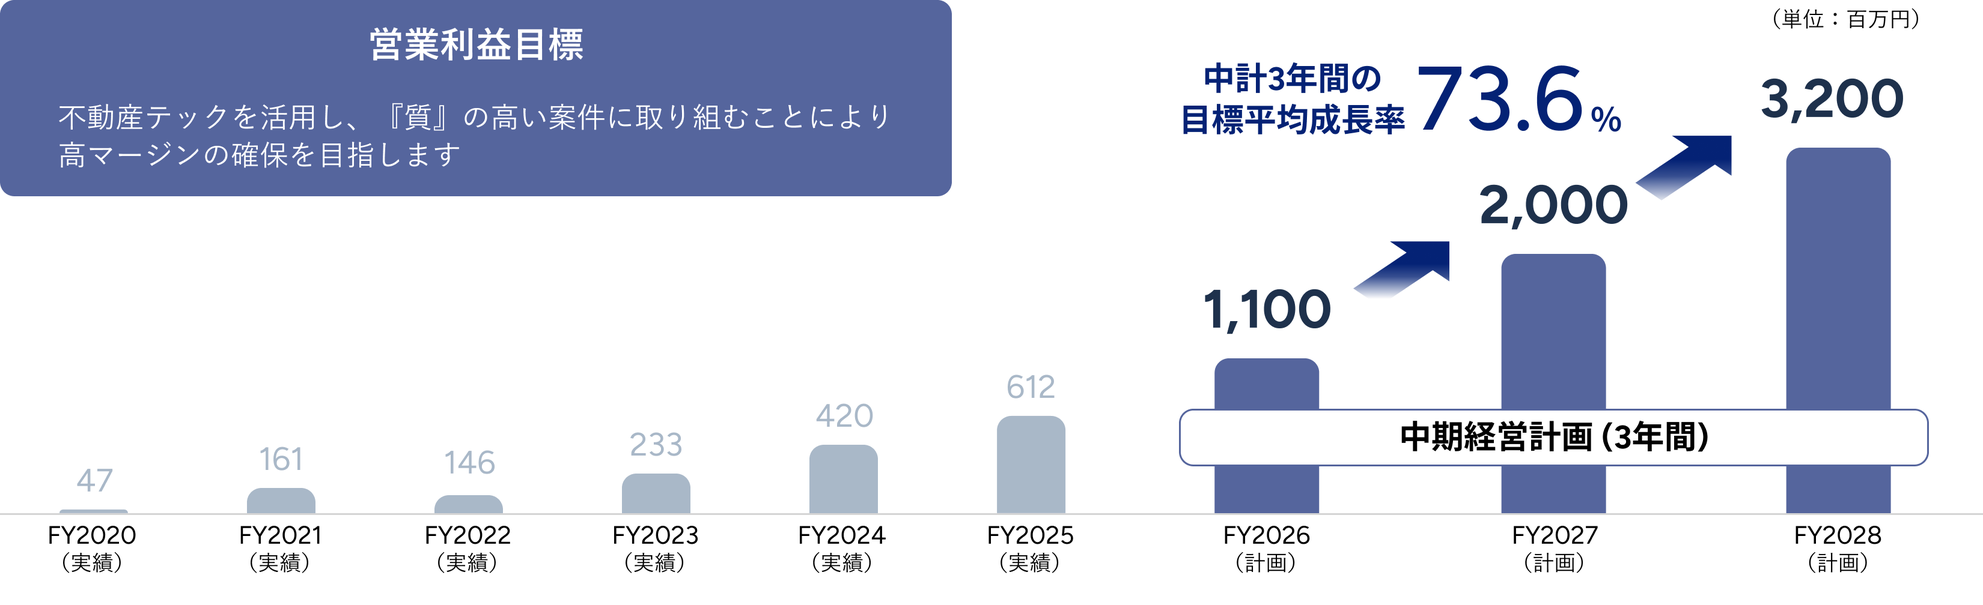
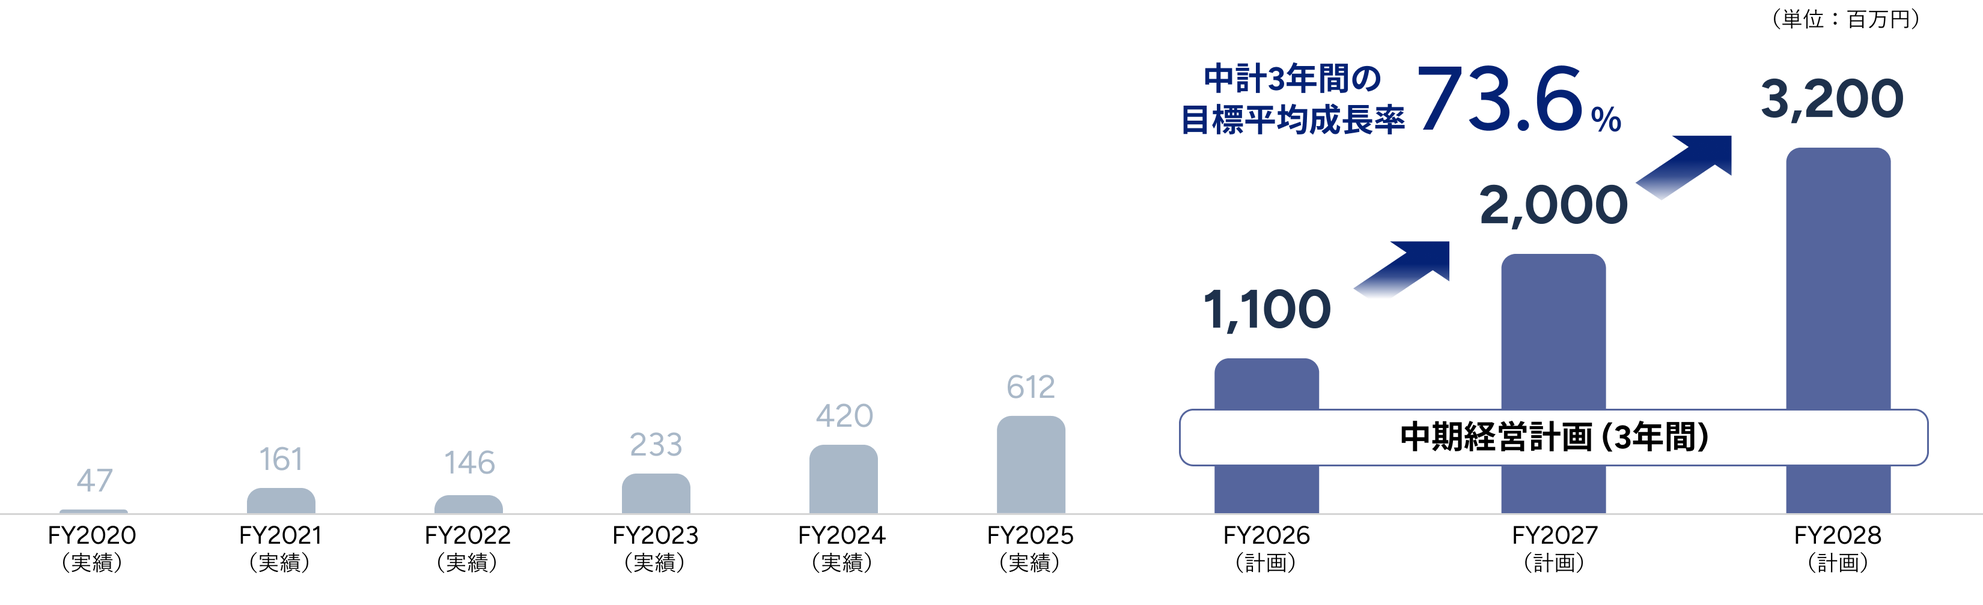
3

Changed region(s): [[0.0, 0.0, 0.4994, 0.3383]]

diff --git a/style.css b/style.css
@@ -1,1 +1,1 @@
-@charset "UTF-8";:root{--azure-21: #1e314c;--azure-72: #a9b8c8;--blue-47: #55659d;--grey-96: #f3f6f8}@keyframes fadeUpScale{0%{opacity:0;transform:translateY(100px)}to{opacity:1;transform:translateY(0)}}@keyframes slideFromLeft1{0%{transform:translate(-100%)}70%{transform:translate(15%)}to{transform:translate(0)}}@keyframes slideFromLeft2{0%{transform:translate(-200%)}70%{transform:translate(15%)}to{transform:translate(0)}}@keyframes slideFromLeft3{0%{transform:translate(-300%)}70%{transform:translate(15%)}to{transform:translate(0)}}@keyframes slideFromLeft4{0%{transform:translate(-400%)}70%{transform:translate(15%)}to{transform:translate(0)}}@keyframes slideFromLeft5{0%{transform:translate(-500%)}70%{transform:translate(15%)}to{transform:translate(0)}}@keyframes fadeInLeft{0%{opacity:0;transform:translate(-100%)}to{opacity:1;transform:translate(0)}}@keyframes fadeInRight{0%{opacity:0;transform:translate(100%)}to{opacity:1;transform:translate(0)}}@keyframes zoomIn{0%{opacity:0;transform:scale(0)}to{opacity:1;transform:scale(1)}}@keyframes revealWidth{0%{width:0}to{width:100%}}@keyframes slideWidth{0%{opacity:0;clip-path:inset(0 100% 0 0)}5%{opacity:1}to{opacity:1;clip-path:inset(0 0 0 0)}}*{margin:0;padding:0;outline:none;list-style:none;border:none;text-decoration:none;box-sizing:border-box}button{background-color:transparent}body{font-family:游ゴシック体,YuGothic,游ゴシック,Yu Gothic,メイリオ,sans-serif;color:var(--azure-21);overflow-x:hidden}.plan{width:100%;height:max-content;background-color:#fff}.plan__point{width:100%;border-radius:8px;overflow:hidden}.plan__pointTitle{display:flex;align-items:center;gap:12px;height:41px;padding:6px 28px;font-size:16px;line-height:1.8;font-weight:700;color:#fff;background-color:var(--azure-21)}.plan__pointTitle img{width:24px;height:24px}.plan__pointContent{display:flex;flex-direction:column;gap:4px;padding:12px 28px;font-size:14px;line-height:1.8;font-weight:500;color:var(--azure-21);background-color:var(--grey-96)}.plan__pointContent--primary{background-color:#fff}.plan__pointContent ul{padding-left:5px}.plan__pointCheck{display:flex;flex-direction:column;width:100%}.plan__pointCheckTitle{display:flex;align-items:center;gap:4px;width:100%}.plan__pointCheckTitle img{width:14px;height:14px}.plan__pointCheckTitle p{font-weight:700}.plan__pointCheckSubTitle{padding-left:18px}.plan__dataList{display:flex;flex-direction:column;gap:18px;width:100%;margin-bottom:30px}.plan__dataItem{display:grid;grid-template-columns:261fr 839fr;width:100%;min-height:61px;background-color:var(--blue-47);border:1px solid var(--blue-47);border-radius:8px;overflow:hidden}.plan__dataItemTitle{display:flex;justify-content:center;align-items:center;height:auto;padding:0 5px;font-size:16px;line-height:1.3;font-weight:700;color:#fff;text-align:center}.plan__dataItemContent{display:flex;align-items:center;height:auto;padding:8px 16px;font-size:16px;line-height:1.3;font-weight:500;color:var(--azure-21);background-color:#fff}.plan__hero{width:100%;height:120px;background-image:url(/assets/bg.avif)}.plan__heroInner{display:flex;align-items:center;width:90%;max-width:1100px;height:100%;margin:0 auto}.plan__heroInner h1{font-family:Figtree,Zen Kaku Gothic New,Noto Sans JP,游ゴシック体,YuGothic,游ゴシック,Yu Gothic,メイリオ,sans-serif;font-size:42px;line-height:1;font-weight:700}.plan__banner{width:100%;padding:87px 0 99px;background-color:#00f}.plan__bannerInner{display:flex;flex-direction:column;align-items:center;width:90%;max-width:1100px;margin:0 auto}.plan__bannerTitle{font-size:28px;line-height:45px;font-weight:700;color:#fff}.plan__bannerStrategy{margin-bottom:64px;font-family:Figtree,Zen Kaku Gothic New,Noto Sans JP,游ゴシック体,YuGothic,游ゴシック,Yu Gothic,メイリオ,sans-serif;font-size:19px;line-height:23px;font-weight:500;color:#fff}.plan__bannerStatement{margin-bottom:16px;font-size:28px;line-height:45px;font-weight:500;color:#fff;text-align:center}.plan__bannerCaption{margin-bottom:9px;font-size:28px;line-height:45px;font-weight:500;color:#fff}.plan__bannerGoal{display:flex;align-items:baseline;margin-bottom:15.6px;font-size:48px;line-height:77px;font-weight:700;color:#fff}.plan__bannerSuffix{font-size:28px;line-height:45px;font-weight:500;color:#fff}.plan__bannerDesc{width:100%;max-width:749px;margin-bottom:73px;font-size:14px;line-height:22px;font-weight:500;color:#fff;text-align:center}.plan__bannerDownload{display:flex;align-items:center;gap:4px;padding:10px 24px;margin-bottom:73.13px;font-size:18px;line-height:1;font-weight:700;color:#fff;background-color:var(--blue-47);border-radius:5px}.plan__bannerDownload img{width:28px;height:24px}.plan__title{width:100%;padding-bottom:15px;margin-bottom:28.9px;border-bottom:1px solid var(--azure-21)}.plan__title h3{font-size:20px;line-height:32px;font-weight:700;color:var(--azure-21)}.plan__subtitle{margin-bottom:30px;font-size:16px;line-height:28.8px;font-weight:500;color:var(--azure-21)}.plan__body{display:flex;flex-direction:column;align-items:center;gap:70px;padding:70px 0 96px;background-color:#fff}.plan__target{width:90%;max-width:1100px}.plan__targetItem{display:flex;flex-direction:column;width:100%;margin-bottom:45px}.plan__targetItem--primary{margin-bottom:0}.plan__targetImage{width:100%;height:auto;aspect-ratio:1100/336}.plan__strategy{width:90%;max-width:1100px}.plan__strategy .plan__subtitle{margin-bottom:30.69px}.plan__strategyItem{display:flex;flex-direction:column;width:100%;margin-bottom:42px}.plan__strategyItem--primary{margin-bottom:0}.plan__strategyItemTitle{position:relative;width:max-content;margin-bottom:12px}.plan__strategyItemTitle:before{content:"";position:absolute;bottom:0;left:0;z-index:0;width:100%;height:5px;background:var(--azure-72)}.plan__strategyItemTitle p{position:relative;z-index:1;font-size:24px;line-height:1;font-weight:700;color:var(--azure-21)}.plan__strategyItemTitle--primary{margin-bottom:16px}.plan__strategyItemTitle--primary:before{height:9px}.plan__strategyItemTitle--primary p{line-height:1.2}.plan__strategyItemSubtitle{margin-bottom:12.69px;font-size:16px;line-height:1.8;font-weight:700;color:#000}.plan__strategyItemSubtitle--primary{margin-bottom:12px}.plan__strategyFocus{display:flex;flex-direction:column;width:100%;border-radius:8px;overflow:hidden}.plan__strategyFocusTitle{display:flex;justify-content:center;align-items:center;width:100%;height:50px;font-size:18px;line-height:1;font-weight:700;color:#fff;background-color:var(--blue-47)}.plan__strategyFocusList{display:grid;grid-template-columns:1fr 1fr 1fr;gap:24px;width:100%;padding:24px;background-color:var(--grey-96)}.plan__strategyFocusItem{width:100%;display:flex;flex-direction:column;border-radius:8px;overflow:hidden}.plan__strategyFocusItemTitle{display:flex;justify-content:center;align-items:center;height:72px;padding:13px 0;font-size:18px;line-height:1.3;font-weight:700;color:#fff;background-color:var(--azure-21)}.plan__strategyFocusItemTitle--primary{align-items:flex-start}.plan__strategyFocusItemContent{display:flex;flex-direction:column;gap:2px;flex-grow:1;padding:20px 24px;font-size:16px;line-height:1.3;font-weight:500;color:#000;background-color:#fff}.plan__strategyFocusItemContent li{display:flex;gap:4px}.plan__strategyBusiness{width:100%;padding:2px;margin-bottom:30px;border-radius:8px;background-color:#eef0f5}.plan__strategyBusiness--primary{margin:0;background-color:#dde0eb}.plan__strategyBusiness--secondary{margin:0;background-color:#99a3c4}.plan__strategyBusiness--main{display:grid;grid-template-columns:1fr 1fr 1fr 1fr;align-items:center;gap:60px;padding:27px 45px;margin:0;background-color:#fff;border:3px solid #55659d}.plan__strategyBusiness--main img{width:100%;height:auto}.plan__strategyBusiness--main img:nth-child(1){aspect-ratio:203/54}.plan__strategyBusiness--main img:nth-child(2){aspect-ratio:203/67}.plan__strategyBusiness--main img:nth-child(3){aspect-ratio:203/66}.plan__strategyBusiness--main img:nth-child(4){aspect-ratio:203/68}.plan__alliance{display:flex;flex-direction:column;width:90%;max-width:1100px}.plan__allianceImage{width:100%;height:auto;margin-bottom:30px;aspect-ratio:1100/288}.plan__growth{display:flex;flex-direction:column;width:90%;max-width:1100px}.plan__growth .plan__pointContent{gap:8px}.plan__integration{display:flex;flex-direction:column;width:90%;max-width:1100px}.plan__integration .plan__pointContent{gap:8px}
+@charset "UTF-8";:root{--azure-21: #1e314c;--azure-72: #a9b8c8;--blue-47: #55659d;--grey-96: #f3f6f8}@keyframes fadeUpScale{0%{opacity:0;transform:translateY(100px)}to{opacity:1;transform:translateY(0)}}@keyframes slideFromLeft1{0%{transform:translate(-100%)}70%{transform:translate(15%)}to{transform:translate(0)}}@keyframes slideFromLeft2{0%{transform:translate(-200%)}70%{transform:translate(15%)}to{transform:translate(0)}}@keyframes slideFromLeft3{0%{transform:translate(-300%)}70%{transform:translate(15%)}to{transform:translate(0)}}@keyframes slideFromLeft4{0%{transform:translate(-400%)}70%{transform:translate(15%)}to{transform:translate(0)}}@keyframes slideFromLeft5{0%{transform:translate(-500%)}70%{transform:translate(15%)}to{transform:translate(0)}}@keyframes fadeInLeft{0%{opacity:0;transform:translate(-100%)}to{opacity:1;transform:translate(0)}}@keyframes fadeInRight{0%{opacity:0;transform:translate(100%)}to{opacity:1;transform:translate(0)}}@keyframes zoomIn{0%{opacity:0;transform:scale(0)}to{opacity:1;transform:scale(1)}}@keyframes revealWidth{0%{width:0}to{width:100%}}@keyframes slideWidth{0%{opacity:0;clip-path:inset(0 100% 0 0)}5%{opacity:1}to{opacity:1;clip-path:inset(0 0 0 0)}}*{margin:0;padding:0;outline:none;list-style:none;border:none;text-decoration:none;box-sizing:border-box}button{background-color:transparent}body{font-family:游ゴシック体,YuGothic,游ゴシック,Yu Gothic,メイリオ,sans-serif;color:var(--azure-21);overflow-x:hidden}.plan{width:100%;height:max-content;background-color:#fff}.plan__contentMB{display:none}.plan__point{width:100%;border-radius:8px;overflow:hidden}.plan__pointTitle{display:flex;align-items:center;gap:12px;height:41px;padding:6px 28px;font-size:16px;line-height:1.8;font-weight:700;color:#fff;background-color:var(--azure-21)}.plan__pointTitle img{width:24px;height:24px}.plan__pointContent{display:flex;flex-direction:column;gap:4px;padding:12px 28px;font-size:14px;line-height:1.8;font-weight:500;color:var(--azure-21);background-color:var(--grey-96)}.plan__pointContent--primary{background-color:#fff}.plan__pointContent ul li{display:flex;gap:9px;padding-left:9px}.plan__pointContent ul li span{transform:translateY(10px);display:block;min-width:3px;height:3px;background-color:var(--azure-21);border-radius:50%}.plan__pointCheck{display:flex;flex-direction:column;width:100%}.plan__pointCheckTitle{display:flex;align-items:center;gap:4px;width:100%}.plan__pointCheckTitle img{width:14px;height:14px}.plan__pointCheckTitle p{font-weight:700}.plan__pointCheckSubTitle{padding-left:18px}.plan__dataList{display:flex;flex-direction:column;gap:18px;width:100%;margin-bottom:30px}.plan__dataItem{display:grid;grid-template-columns:261fr 839fr;width:100%;min-height:61px;background-color:var(--blue-47);border:1px solid var(--blue-47);border-radius:8px;overflow:hidden}.plan__dataItemTitle{display:flex;justify-content:center;align-items:center;height:auto;padding:0 5px;font-size:16px;line-height:1.3;font-weight:700;color:#fff;text-align:center}.plan__dataItemContent{display:flex;align-items:center;height:auto;padding:8px 16px;font-size:16px;line-height:1.3;font-weight:500;color:var(--azure-21);background-color:#fff}.plan__title{width:100%;padding-bottom:15px;margin-bottom:28.9px;border-bottom:1px solid var(--azure-21)}.plan__title h3{font-size:20px;line-height:32px;font-weight:700;color:var(--azure-21)}.plan__subtitle{margin-bottom:30px;font-size:16px;line-height:28.8px;font-weight:500;color:var(--azure-21)}.plan__banner{width:100%;padding:87px 0 99px;background-color:#00f}.plan__bannerInner{display:flex;flex-direction:column;align-items:center;width:90%;max-width:1100px;margin:0 auto}.plan__bannerTitle{font-size:28px;line-height:45px;font-weight:700;color:#fff}.plan__bannerStrategy{margin-bottom:64px;font-family:Figtree,Zen Kaku Gothic New,Noto Sans JP,游ゴシック体,YuGothic,游ゴシック,Yu Gothic,メイリオ,sans-serif;font-size:19px;line-height:23px;font-weight:500;color:#fff}.plan__bannerStatement{margin-bottom:16px;font-size:28px;line-height:45px;font-weight:500;color:#fff;text-align:center}.plan__bannerCaption{margin-bottom:9px;font-size:28px;line-height:45px;font-weight:500;color:#fff}.plan__bannerGoal{display:flex;align-items:baseline;margin-bottom:15.6px;font-size:48px;line-height:77px;font-weight:700;color:#fff}.plan__bannerSuffix{font-size:28px;line-height:45px;font-weight:500;color:#fff}.plan__bannerDesc{width:100%;max-width:749px;margin-bottom:73px;font-size:14px;line-height:22px;font-weight:500;color:#fff;text-align:center}.plan__bannerDownload{display:flex;align-items:center;gap:4px;padding:9px 23px;margin-bottom:73.13px;font-size:18px;line-height:1;font-weight:700;color:#fff;background-color:var(--blue-47);border:1px solid var(--blue-47);border-radius:5px;transition:ease-out .2s background-color,ease-out .12s color}.plan__bannerDownload img{width:28px;height:24px}.plan__bannerDownload .plan__bannerDownloadImgHover{display:none}@media(min-width:768px){.plan__bannerDownload:hover{color:var(--blue-47);background-color:#fff}.plan__bannerDownload:hover .plan__bannerDownloadImgHover{display:block}.plan__bannerDownload:hover .plan__bannerDownloadImgNormal{display:none}}.plan__body{display:flex;flex-direction:column;align-items:center;gap:70px;padding:70px 0 96px;background-color:#fff}.plan__target{width:90%;max-width:1100px}.plan__target .plan__subtitle{margin-bottom:30.69px}.plan__targetItem{display:flex;flex-direction:column;width:100%;margin-bottom:45px}.plan__targetItem--primary{margin-bottom:0}.plan__targetItemInner{position:relative;width:100%}.plan__targetItemContent{position:absolute;top:0;left:0;z-index:1;display:flex;flex-direction:column;gap:17px;width:43.64%;padding:12px 32px;background-color:var(--blue-47);border-radius:8px}.plan__targetItemContent--primary{width:48%}.plan__targetItemContent--secondary{width:41.1%}.plan__targetItemTitle{font-size:20px;line-height:1.3;font-weight:700;color:#fff}.plan__targetItemDesc{width:100%;font-size:16px;line-height:1.3;font-weight:500;color:#fff}.plan__targetItemImage{position:relative;z-index:0;display:flex;width:100%;height:max-content}.plan__targetItemImage img{width:100%;height:auto;aspect-ratio:1100/336}.plan__strategy{width:90%;max-width:1100px}.plan__strategy .plan__subtitle{margin-bottom:30.69px}.plan__strategyItem{display:flex;flex-direction:column;width:100%;margin-bottom:42px}.plan__strategyItem--primary{margin-bottom:0}.plan__strategyItemTitle{position:relative;width:max-content;margin-bottom:12px}.plan__strategyItemTitle:before{content:"";position:absolute;bottom:0;left:0;z-index:0;width:100%;height:5px;background:var(--azure-72)}.plan__strategyItemTitle p{position:relative;z-index:1;font-size:24px;line-height:1;font-weight:700;color:var(--azure-21)}.plan__strategyItemTitle--primary{margin-bottom:16px}.plan__strategyItemTitle--primary:before{height:9px}.plan__strategyItemTitle--primary p{line-height:1.2}.plan__strategyItemSubtitle{margin-bottom:12.69px;font-size:16px;line-height:1.8;font-weight:700;color:#000}.plan__strategyItemSubtitle--primary{margin-bottom:12px}.plan__strategyFocus{display:flex;flex-direction:column;width:100%;border-radius:8px;overflow:hidden}.plan__strategyFocusTitle{display:flex;justify-content:center;align-items:center;width:100%;height:50px;font-size:18px;line-height:1;font-weight:700;color:#fff;background-color:var(--blue-47)}.plan__strategyFocusList{display:grid;grid-template-columns:1fr 1fr 1fr;gap:24px;width:100%;padding:24px;background-color:var(--grey-96)}.plan__strategyFocusItem{width:100%;display:flex;flex-direction:column;border-radius:8px;overflow:hidden}.plan__strategyFocusItemTitle{display:flex;justify-content:center;align-items:center;height:72px;padding:13px 0;font-size:18px;line-height:1.3;font-weight:700;color:#fff;background-color:var(--azure-21)}.plan__strategyFocusItemTitle--primary{align-items:flex-start}.plan__strategyFocusItemContent{display:flex;flex-direction:column;gap:2px;flex-grow:1;padding:20px 24px;font-size:16px;line-height:1.3;font-weight:500;color:#000;background-color:#fff}.plan__strategyFocusItemContent li{display:flex;gap:4px}.plan__strategyBusiness{width:100%;padding:2px;margin-bottom:30px;border-radius:8px;background-color:#eef0f5}.plan__strategyBusiness--primary{margin:0;background-color:#dde0eb}.plan__strategyBusiness--secondary{margin:0;background-color:#99a3c4}.plan__strategyBusiness--main{display:grid;grid-template-columns:1fr 1fr 1fr 1fr;align-items:center;gap:60px;padding:27px 45px;margin:0;background-color:#fff;border:3px solid #55659d}.plan__strategyBusiness--main img{width:100%;height:auto}.plan__strategyBusiness--main img:nth-child(1){aspect-ratio:203/54}.plan__strategyBusiness--main img:nth-child(2){aspect-ratio:203/67}.plan__strategyBusiness--main img:nth-child(3){aspect-ratio:203/66}.plan__strategyBusiness--main img:nth-child(4){aspect-ratio:203/68}.plan__alliance{display:flex;flex-direction:column;width:90%;max-width:1100px}.plan__allianceImage{width:100%;height:auto;margin-bottom:30px;aspect-ratio:1100/288}.plan__growth{display:flex;flex-direction:column;width:90%;max-width:1100px}.plan__growth .plan__pointContent{gap:8px}.plan__integration{display:flex;flex-direction:column;width:90%;max-width:1100px}.plan__integration .plan__pointContent{gap:8px}@media(max-width:800px){.plan__targetItemContent{gap:10px;padding:10px 30px}}@media(max-width:767px){.plan .pages-hero,.plan__contentPC{display:none}.plan__contentMB{display:block}.plan__pointTitle{height:33px;padding:4px 20px;font-size:14px}.plan__pointTitle img{width:16px;height:16px}.plan__pointContent{padding:12px 20px}.plan__dataItem{display:grid;grid-template-columns:1fr;min-height:auto}.plan__dataItemTitle{padding:7px 0 8px;font-size:14px}.plan__dataItemContent{padding:8px 19px 7px;font-size:14px}.plan__title{margin-bottom:18.9px}.plan__title h3{font-size:16px;line-height:1.3}.plan__subtitle{font-size:14px;line-height:1.8}.plan__banner{padding:24.87px 0 32px}.plan__bannerInner{width:100%;padding:0 15px}.plan__bannerTitle{margin-bottom:4px;font-size:20px;line-height:32px}.plan__bannerStrategy{margin-bottom:32.13px;font-size:16px;line-height:19px}.plan__bannerStatement{margin-bottom:0;font-size:16px;line-height:26px}.plan__bannerCaption{margin-bottom:1px;font-size:16px;line-height:26px}.plan__bannerGoal{max-width:289px;margin-bottom:14px;font-size:26px;line-height:42px;text-align:center}.plan__bannerSuffix{display:none}.plan__bannerDesc{margin-bottom:28px;font-size:12.5px;line-height:20px}.plan__bannerDownload{padding:10px 35px 10px 24px;margin-bottom:32px;font-size:16px;line-height:1.3;text-align:center}.plan__bannerDownload img{width:26px;height:24px}.plan__body{gap:50px;padding:50px 0 60px}.plan__target{width:100%;padding:0 15px}.plan__target .plan__subtitle{margin-bottom:30px}.plan__targetItem{gap:12px;margin-bottom:30px}.plan__targetItem--primary{margin-bottom:0}.plan__targetItemInner{display:flex;flex-direction:column;gap:6px}.plan__targetItemContent{position:relative;align-items:center;width:100%;gap:17px;padding:12px 20px}.plan__targetItemContent--primary,.plan__targetItemContent--secondary{width:100%}.plan__targetItemDesc{font-size:14px}.plan__targetItemImage{padding:0 10px;height:max-content}.plan__targetItemImage img{aspect-ratio:325/334}.plan__strategy{width:100%;padding:0 15px}.plan__strategy .plan__subtitle{margin-bottom:30px}.plan__strategy .plan__pointTitle{height:41px;padding:6px 28px;font-size:16px}.plan__strategy .plan__pointTitle img{width:24px;height:24px}.plan__strategy .plan__pointContent{padding:12px 28px}.plan__strategyItemTitle p{font-size:16px;line-height:1.3}.plan__strategyItemTitle--primary:before{height:6px}.plan__strategyItemSubtitle{font-size:14px}.plan__strategyFocusList{grid-template-columns:1fr;padding:20px}.plan__strategyFocusItemTitle{height:auto;padding:8px 0}.plan__strategyFocusItemContent{padding:20px}.plan__strategyBusiness--main{grid-template-columns:1fr 1fr;align-items:center;column-gap:29px;row-gap:12px;padding:17px}.plan__strategyBusiness--main img:nth-child(1){aspect-ratio:132/35}.plan__strategyBusiness--main img:nth-child(2){aspect-ratio:132/43}.plan__strategyBusiness--main img:nth-child(3){aspect-ratio:132/43}.plan__strategyBusiness--main img:nth-child(4){aspect-ratio:132/44}.plan__alliance{width:100%;padding:0 15px}.plan__allianceImage{aspect-ratio:345/314}.plan__growth{width:100%;padding:0 15px}}

diff --git a/index.html b/index.html
@@ -864,31 +864,60 @@
 
 		<!-- HTMLの追加はこちらに -->
 		<main class="plan">
-			<section class="plan__hero">
-				<div class="plan__heroInner">
-					<h1>IR情報</h1>
+			<div class="pages-hero pages-hero--ir">
+				<div class="pages-hero__inner">
+					<h1 class="pages-hero__ttl jp">IR情報</h1>
 				</div>
-			</section>
+			</div>
 			<section class="plan__banner">
 				<div class="plan__bannerInner">
 					<p class="plan__bannerTitle">中期経営計画 FY2026~FY2028</p>
 					<p class="plan__bannerStrategy">～ A Tech-Driven Platform Strategy ～</p>
-					<p class="plan__bannerStatement">不動産テックを起点としたCREソリューションの高い『質』と『成長性』を通じた</p>
+					<p class="plan__bannerStatement plan__contentPC">不動産テックを起点としたCREソリューションの高い『質』と『成長性』を通じた</p>
+					<p class="plan__bannerStatement plan__contentMB">
+						不動産テックを起点とした
+						<br>
+						CREソリューションの
+						<br>
+						高い『質』と『成長性』を通じた
+					</p>
 					<p class="plan__bannerCaption">ビジネス展開の加速により</p>
 					<p class="plan__bannerGoal">CREプラットフォーマーとしての地位を確立<span class="plan__bannerSuffix">します</span></p>
-					<p class="plan__bannerDesc">CREプラットフォーマーとは、 「CRE＝ククレブ・アドバイザーズ」と想起されるトップ・オブ・マインドを確立し、
+					<p class="plan__bannerDesc plan__contentPC">CREプラットフォーマーとは、 「CRE＝ククレブ・アドバイザーズ」と想起されるトップ・オブ・マインドを確立し、
 						CREに関する取引・アドバイザリー・売買等が当社のプラットフォームを“経由”すること</p>
-					<a href="#" class="plan__bannerDownload">「中期経営計画 FY2026-FY2028」ダウンロード <img
-							src="./assets/icon/download.svg" width="28" height="24" alt="download" /></a>
+					<p class="plan__bannerDesc plan__contentMB">
+						CREプラットフォーマーとは
+						<br>
+						「CRE＝ククレブ・アドバイザーズ」と想起されるトップ・オブ・マインドを確立し、
+						<br>
+						CREに関する取引・アドバイザリー・売買等が当社のプラットフォームを“経由”すること
+					</p>
+					<a href="#" class="plan__bannerDownload">
+						「中期経営計画 FY2026-FY2028」ダウンロード
+						<img src="./assets/icon/download.svg" width="28" height="24"
+							class="plan__bannerDownloadImgNormal" alt="download" />
+						<img src="./assets/icon/download-hover.svg" width="28" height="24"
+							class="plan__bannerDownloadImgHover" alt="download" />
+					</a>
 					<div class="plan__point">
 						<div class="plan__pointTitle">
 							<img src="./assets/icon/point.svg" width="24" height="24" alt="point" />
 							ポイント
 						</div>
-						<div class="plan__pointContent plan__pointContent--primary">
+						<div class="plan__pointContent plan__pointContent--primary plan__contentPC">
 							当社は、不動産テックを基盤にすべての企業不動産（CRE）にソリューション（解決策）を提供しています。
 							<br>
 							近年の上場企業における経営戦略や資本市場からの要請、非上場企業における事業承継課題を踏まえ、拡大する多種多様なCRE活用課題やニーズの解決に取り組みます。
+							<br>
+							中期経営計画
+							FY2026～FY2028（2026年8月期～2028年8月期）では、拡大するCREニーズを背景に、不動産テックとソリューションの連携を強化し、CREプラットフォーマーとしての地位確立を目指します。
+						</div>
+						<div class="plan__pointContent plan__pointContent--primary plan__contentMB">
+							当社は、不動産テックを基盤にすべての企業不動産（CRE）にソリューション（解決策）を提供しています。
+							<br>
+							近年の上場企業における経営戦略や資本市場からの要請、非上場企業における事業承継課題を踏まえ、拡大する多種多様なCRE活用課題や
+							<br>
+							ニーズの解決に取り組みます。
 							<br>
 							中期経営計画
 							FY2026～FY2028（2026年8月期～2028年8月期）では、拡大するCREニーズを背景に、不動産テックとソリューションの連携を強化し、CREプラットフォーマーとしての地位確立を目指します。
@@ -904,8 +933,25 @@
 			</div>
 			<p class="plan__subtitle">2028年8月期に売上高 120億円、営業利益 32億円、当期純利益 20億円の到達を目指します</p>
 			<div class="plan__targetItem">
-				<img src="./assets/image/target/target1.png" width="1100" height="336" class="plan__targetImage"
-					alt="target" />
+				<div class="plan__targetItemInner">
+					<div class="plan__targetItemContent">
+						<p class="plan__targetItemTitle">売上高目標</p>
+						<p class="plan__targetItemDesc plan__contentPC">不動産テックを活用した潜在的な案件の掘り起こしにより
+							年間成長率60%以上の維持を目指します
+						</p>
+						<p class="plan__targetItemDesc plan__contentMB">
+							不動産テックを活用した潜在的な案件の掘り起こしにより
+							<br>
+							年間成長率60%以上の維持を目指します
+						</p>
+					</div>
+					<div class="plan__targetItemImage">
+						<img src="./assets/image/target/target1.png" width="1100" height="336" class="plan__contentPC"
+							alt="target" />
+						<img src="./assets/image/target/target1-mb.png" width="325" height="334" class="plan__contentMB"
+							alt="target" />
+					</div>
+				</div>
 				<div class="plan__point">
 					<div class="plan__pointTitle">
 						<img src="./assets/icon/point.svg" width="24" height="24" alt="point" />
@@ -917,8 +963,26 @@
 				</div>
 			</div>
 			<div class="plan__targetItem">
-				<img src="./assets/image/target/target2.png" width="1100" height="336" class="plan__targetImage"
-					alt="target" />
+				<div class="plan__targetItemInner">
+					<div class="plan__targetItemContent plan__targetItemContent--primary">
+						<p class="plan__targetItemTitle">営業利益目標</p>
+						<p class="plan__targetItemDesc plan__contentPC">
+							不動産テックを活用し、『質』の高い案件に取り組むことにより
+							高マージンの確保を目指します
+						</p>
+						<p class="plan__targetItemDesc plan__contentMB">
+							不動産テックを活用し、『質』の高い案件に取り組むことにより
+							<br>
+							高マージンの確保を目指します
+						</p>
+					</div>
+					<div class="plan__targetItemImage">
+						<img src="./assets/image/target/target2.png" width="1100" height="336" class="plan__contentPC"
+							alt="target" />
+						<img src="./assets/image/target/target2-mb.png" width="325" height="334" class="plan__contentMB"
+							alt="target" />
+					</div>
+				</div>
 				<div class="plan__point">
 					<div class="plan__pointTitle">
 						<img src="./assets/icon/point.svg" width="24" height="24" alt="point" />
@@ -930,8 +994,29 @@
 				</div>
 			</div>
 			<div class="plan__targetItem plan__targetItem--primary">
-				<img src="./assets/image/target/target3.png" width="1100" height="336" class="plan__targetImage"
-					alt="target" />
+				<div class="plan__targetItemInner">
+					<div class="plan__targetItemContent plan__targetItemContent--secondary">
+						<p class="plan__targetItemTitle">当期純利益目標</p>
+						<p class="plan__targetItemDesc plan__contentPC">
+							利益成長とともに
+							<br>
+							1株あたり純利益(EPS)及び配当金の成長も目指します
+						</p>
+						<p class="plan__targetItemDesc plan__contentMB">
+							利益成長とともに
+							<br>
+							1株あたり純利益(EPS)及び配当金の成長も
+							<br>
+							目指します
+						</p>
+					</div>
+					<div class="plan__targetItemImage">
+						<img src="./assets/image/target/target3.png" width="1100" height="336" class="plan__contentPC"
+							alt="target" />
+						<img src="./assets/image/target/target3-mb.png" width="325" height="334" class="plan__contentMB"
+							alt="target" />
+					</div>
+				</div>
 				<div class="plan__point">
 					<div class="plan__pointTitle">
 						<img src="./assets/icon/point.svg" width="24" height="24" alt="point" />
@@ -947,8 +1032,12 @@
 			<div class="plan__title">
 				<h3>中期経営計画3か年の成長戦略</h3>
 			</div>
-			<p class="plan__subtitle">
-				不動産テックを起点とした、CREソリューションの高い『質』と『成長性』を通じたビジネス展開の加速により<br>CREプラットフォーマーとしての地位を確立していきます</p>
+			<p class="plan__subtitle plan__contentPC">
+				不動産テックを起点とした、CREソリューションの高い『質』と『成長性』を通じたビジネス展開の加速により<br>CREプラットフォーマーとしての地位を確立していきます
+			</p>
+			<p class="plan__subtitle plan__contentMB">
+				不動産テックを起点とした、CREソリューションの高い『質』と『成長性』を通じたビジネス展開の加速により、CREプラットフォーマーとしての地位を確立していきます
+			</p>
 			<div class="plan__strategyItem">
 				<div class="plan__strategyItemTitle">
 					<p>CREソリューションビジネス</p>
@@ -1048,8 +1137,13 @@
 					<div class="plan__pointContent">
 						<p>不動産テックビジネスとCREソリューションビジネスが有機的に連携するという⽅針は、これまでと変わりません。</p>
 						<ul>
-							<li>・不動産テックビジネスについては、今後はM&Aを軸に、不動産テック関連企業とのアライアンスを⽬指します。</li>
-							<li>・CREソリューションビジネスでは規模を拡⼤する上で、 3つのポイントを重視しします。
+							<li>
+								<span></span>
+								不動産テックビジネスについては、今後はM&Aを軸に、不動産テック関連企業とのアライアンスを⽬指します。
+							</li>
+							<li>
+								<span></span>
+								CREソリューションビジネスでは規模を拡⼤する上で、 3つのポイントを重視しします。
 							</li>
 						</ul>
 						<p>このような取り組みを掛け合わせることで、投資機会を逃さず、次の成⻑フェーズに進むことを⽬指します。</p>
@@ -1062,8 +1156,10 @@
 				<h3>1.戦略的アライアンス</h3>
 			</div>
 			<p class="plan__subtitle">事業領域および重点エリアに強みを持つ事業会社・金融機関との戦略的アライアンスを推進していきます</p>
-			<img src="./assets/image/alliance/content.png" width="1100" height="288" class="plan__allianceImage"
-				alt="alliance" />
+			<img src="./assets/image/alliance/content.png" width="1100" height="288"
+				class="plan__allianceImage plan__contentPC" alt="alliance" />
+			<img src="./assets/image/alliance/content-mb.png" width="345" height="314"
+				class="plan__allianceImage plan__contentMB" alt="alliance" />
 			<div class="plan__point">
 				<div class="plan__pointTitle">
 					<img src="./assets/icon/point.svg" width="24" height="24" alt="point" />
